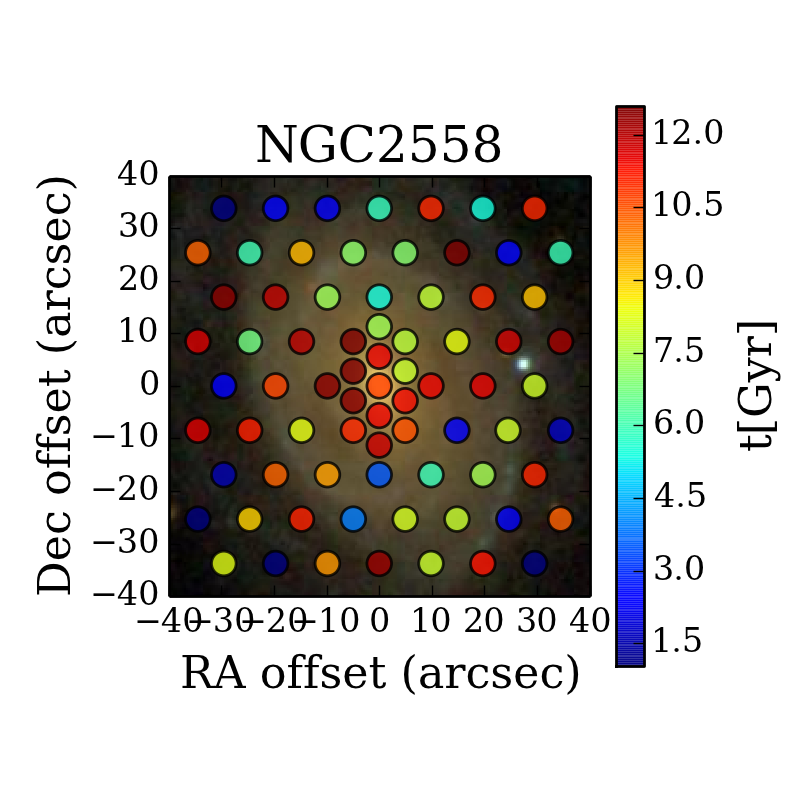
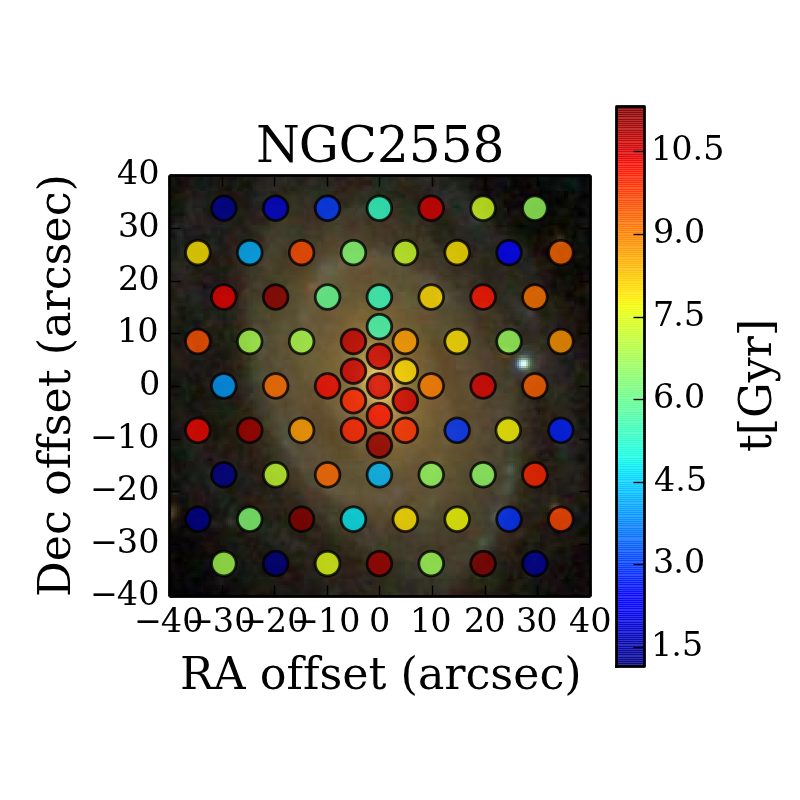
last commit before adding gas fits

diff --git a/SPaCT.py b/SPaCT.py
@@ -634,7 +634,7 @@ def gal_rad_dep_plot(objname, fibers, quantity = None, qty_dets = '', save = Fal
 def SP_pPXF(ifu, fiber, l_summ, z, template_set = 'MILES', verbose = False, 
 	noise_plots = False, fit_plots = False, reddening = None, age_lim = 13.6, 
 	n_moments = 4, bias = None,	objname = '', clean = True, quiet = False, 
-	oversample = False):
+	oversample = False, save_fits = False):
 	'''
 	Run Cappellari et al.'s pPXF on a SparsePak fiber
 
@@ -666,6 +666,8 @@ def SP_pPXF(ifu, fiber, l_summ, z, template_set = 'MILES', verbose = False,
 	import colorpy.ciexyz as ciexyz
 	import colorpy.colormodels as cmodels
 	import warnings
+
+	import os
 
 	CRVAL1, CDELT1, NAXIS1 = l_summ
 	lamRange1 = np.array([CRVAL1, CRVAL1 + CDELT1 * NAXIS1])
@@ -805,8 +807,15 @@ def SP_pPXF(ifu, fiber, l_summ, z, template_set = 'MILES', verbose = False,
 
 	#now reshape the templates according to the number of Z and t values available
 	nZ, nt, nalpha = len(np.unique(ssps['Z'])), len(np.unique(ssps['t'])), len(np.unique(ssps['IMF slope']))
-	templates = np.reshape(templates, ( len(templates[:,0]), nt, nZ, nalpha ) )
+	templates = np.reshape(templates, ( len(templates[:,0]), nZ, nt, nalpha ) )
 	print np.shape(templates)
+
+	reg_dim = templates.shape[1:]
+	if reg_dim[-1] == 1.:
+		reg_dim = reg_dim[:-1]
+	print reg_dim
+
+	templates = templates.reshape(templates.shape[0],-1)
 
 	with warnings.catch_warnings():
 		warnings.simplefilter("ignore", category = DeprecationWarning)
@@ -824,8 +833,9 @@ def SP_pPXF(ifu, fiber, l_summ, z, template_set = 'MILES', verbose = False,
 			moments = n_moments, degree = 4, vsyst = dv, reddening = reddening, 
 			lam = lam, quiet = True)
 		#print 'First pass successful'
-		print 'First pass results'
-		print pp.sol
+		if verbose == True:
+			print 'First pass results'
+			print pp.sol
 
 		noise = np.abs(pp.bestfit - galaxy/np.median(galaxy))
 
@@ -833,10 +843,10 @@ def SP_pPXF(ifu, fiber, l_summ, z, template_set = 'MILES', verbose = False,
 			velScale = velscale, start = pp.sol[:2], goodpixels = goodPixels, clean = clean, 
 			plot = fit_plots, moments = n_moments, degree = 4, vsyst = dv, 
 			reddening = reddening, lam = lam, bias = bias, quiet = quiet, 
-			oversample = oversample, regul = 250., reg_dim = 4)
+			oversample = oversample, regul = 100., reg_dim = reg_dim)
 		print 'Second pass results'
 		print pp.sol
-		print pp.chi2
+		print 'Chi2/DOF =', pp.chi2
 
 		#print 'Second pass successful'
 		
@@ -902,7 +912,16 @@ def SP_pPXF(ifu, fiber, l_summ, z, template_set = 'MILES', verbose = False,
 	#ssps.pprint(max_lines = -1)
 	#print ssps#[ssps['fits'] != 0.]
 
-	if fit_plots == True: plt.show()
+	if fit_plots == True: 
+		if save_fits == False: 
+			plt.show()
+		else:
+			try:
+				os.makedirs(objname)
+			except OSError:
+				pass
+		
+		plt.savefig(objname + '/' + str(fiber) + '.png')
 
 	return pp, ssps
 
@@ -921,7 +940,7 @@ def pPXF_make_derived_plots(objname):
 	gal_rad_dep_plot(objname = objname, fibers = fiberdata, quantity = 'V', qty_dets = '[km/s]', save = True)
 	gal_rad_dep_plot(objname = objname, fibers = fiberdata, quantity = 'sigma', qty_dets = '[km/s]', save = True)
 
-def pPXF_run_galaxy(objname):
+def pPXF_run_galaxy(objname, first_few = None):
 	import ppxf
 	from astroML.datasets import fetch_sdss_spectrum
 	import warnings
@@ -988,9 +1007,9 @@ def pPXF_run_galaxy(objname):
 		ifu = fits.open(objname + '_fluxcal.fits')[0].data
 		try:
 			pp, ssps = SP_pPXF((ifu.T/np.median(ifu, axis = 1)).T, fiber = fiber, l_summ = (3907., 1.4, 1934), 
-				z = z + dz, verbose = False, noise_plots = False, fit_plots = False, clean = True, quiet = True, 
-				age_lim = 13.5, n_moments = n_moments, bias = None, objname = objname, 
-				oversample = False, reddening = EBV)
+				z = z + dz, verbose = False, noise_plots = False, fit_plots = True, save_fits = True, 
+				clean = True, quiet = True, age_lim = 13.5, n_moments = n_moments, 
+				bias = None, objname = objname, oversample = False, reddening = EBV)
 
 			fiber_Z = np.log10(np.average(10.**ssps['Z'], weights = ssps['fits']))
 			fiber_age = np.average(ssps['t'], weights = ssps['fits'])
@@ -1011,13 +1030,17 @@ def pPXF_run_galaxy(objname):
 		except ZeroDivisionError:
 			print 'No fit in fiber', fiber
 
-		#if i >= 1: break
+		if first_few:
+			if i >= (first_few - 1):
+				break
 
-	try:
-		os.makedirs(objname)
-	except OSError:
-		pass
-	fiberdata.write(objname + '/fiberfits.dat', format = 'ascii')
+	if not first_few:
+		try:
+			os.makedirs(objname)
+		except OSError:
+			pass
+		fiberdata.write(objname + '/fiberfits.dat', format = 'ascii')
+		print 'Written to', objname + '/fiberfits.dat'
 
 '''
 im, fiberflat = load_ifus_precorrection('NGC2558')

diff --git a/ppxf_population_gas_example_sdss.py b/ppxf_population_gas_example_sdss.py
@@ -151,7 +151,9 @@ def ppxf_population_gas_example_sdss():
     # needed to specify the regularization dimensions
     #
     reg_dim = stars_templates.shape[1:]
+    print(stars_templates.shape, reg_dim)
     stars_templates = stars_templates.reshape(stars_templates.shape[0],-1)
+    print(stars_templates.reshape(stars_templates.shape[0],-1).shape)
 
     # See the pPXF documentation for the keyword REGUL,
     # for an explanation of the following two lines
